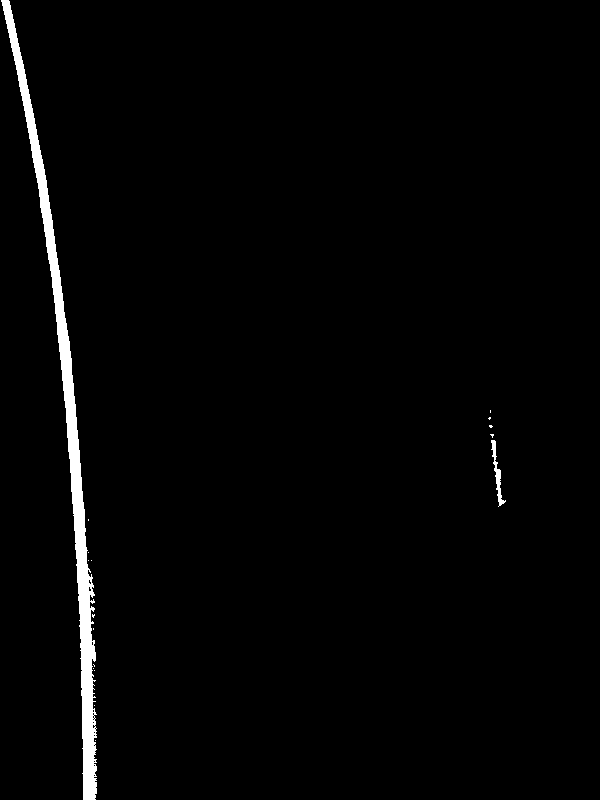
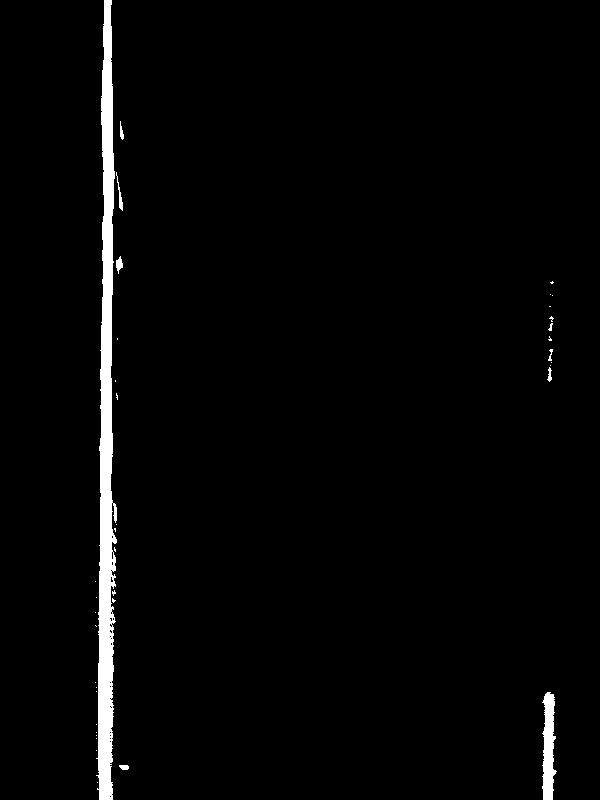
almost done

diff --git a/start.py b/start.py
@@ -30,7 +30,7 @@ cv2.imwrite("report/after_calibration_road.png", dst)
 image_path = 'report/sample1.png'
 img = cv2.imread(image_path)
 dst = cv2.undistort(img, camear_calibration['mtx'], camear_calibration['dist'], None, camear_calibration['mtx'])
-flat, TransformMatrix,ble,ple = flat_perspective(dst)
+flat = flat_perspective(dst)
 
 
 ## Present Image Preprocesors
@@ -66,20 +66,12 @@ from lane_finder import find_line
 lines = find_line(pre)
 
 
-#Get transformback matrix
-dst = cv2.undistort(img, camear_calibration['mtx'], camear_calibration['dist'], None, camear_calibration['mtx'])
-flat, TransformMatrix, src_points, dst_points = flat_perspective(dst)
+from lane_finder import mix_images
+
+mixed = mix_images(img,lines)
 
 
-Minv = cv2.getPerspectiveTransform(  dst_points,src_points)
-
-warp_zero = np.zeros_like(pre).astype(np.uint8)
-color_warp = np.dstack((warp_zero, warp_zero, warp_zero))
-newwarp = cv2.warpPerspective(lines, Minv, (img.shape[1], img.shape[0]))
-
-result = cv2.addWeighted(img, 1, newwarp, 0.5, 0)
-
-plt.imshow(result)
+plt.imshow(mixed)
 plt.show()
 
 OUTPUT_DIR = 'out_video'
@@ -88,7 +80,7 @@ images = sorted(glob.glob('frames/project_video/out-*.png'))
 for x in images:
     img = cv2.imread(x)
     dst = cv2.undistort(img, camear_calibration['mtx'], camear_calibration['dist'], None, camear_calibration['mtx'])
-    flat, TransformMatrix,src_point,dst_points = flat_perspective(dst)
+    flat = flat_perspective(dst)
 
 
     out_b = s_binnary(flat)
@@ -98,6 +90,7 @@ for x in images:
 
     out = combine_preprocesors(flat)
     out = find_line(out)
+    out = mix_images(img,out)
 
 
 

diff --git a/lane_finder.py b/lane_finder.py
@@ -96,9 +96,16 @@ def find_line(img):
     return out_img
 
 def mix_images(orginal,wraped):
+    src, dst, img_size = get_perspective_points()
+    Minv = cv2.getPerspectiveTransform(dst,src)
 
+    warp_zero = np.zeros_like(wraped).astype(np.uint8)
+    color_warp = np.dstack((warp_zero, warp_zero, warp_zero))
+    newwarp = cv2.warpPerspective(wraped, Minv, (orginal.shape[1], orginal.shape[0]))
 
-    pass
+    result = cv2.addWeighted(orginal, 1, newwarp, 0.7, 0)
+
+    return result
 
 
 

diff --git a/cam_calibration.py b/cam_calibration.py
@@ -77,4 +77,4 @@ def flat_perspective(img):
     # ax2.imshow(out)
     # ax2.autoscale(False)
     # plt.show()
-    return out,M,src,dst
+    return out
